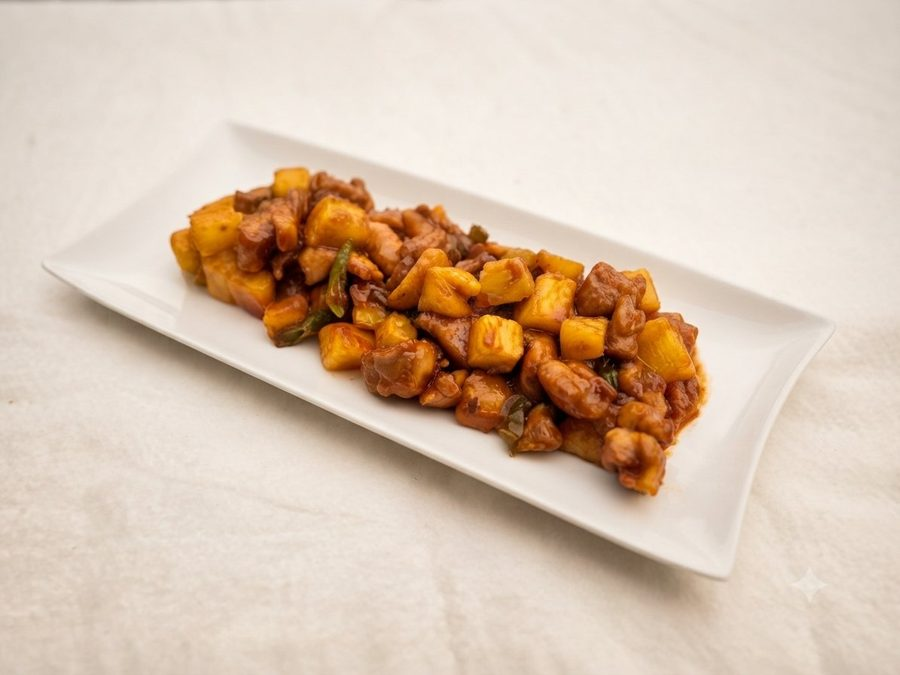
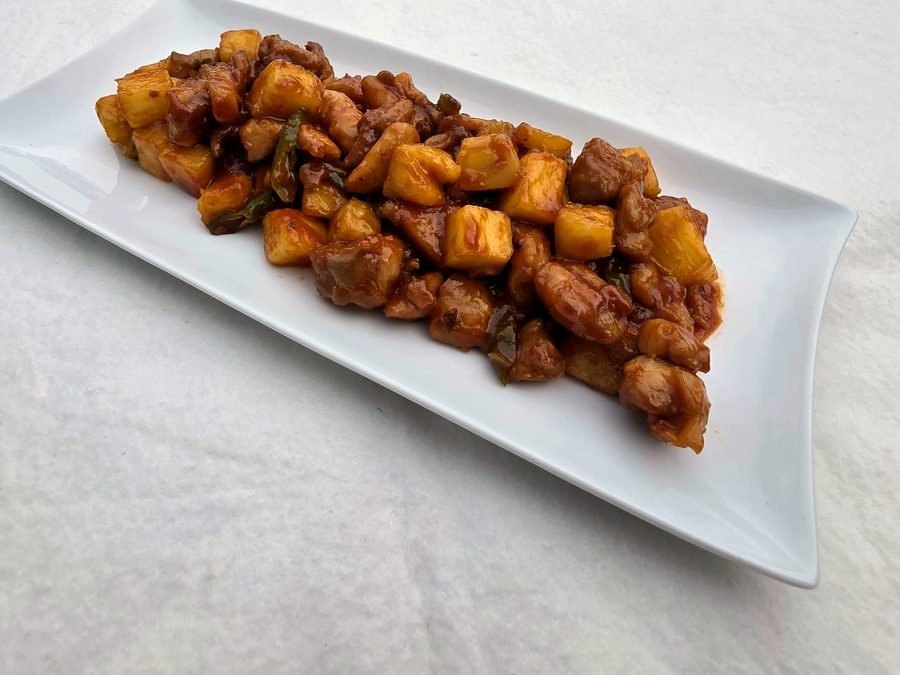
Preview: Sweet and Sour Pineapple Chicken

diff --git a/restaurants/jc-hwangs/index.html b/restaurants/jc-hwangs/index.html
@@ -105,7 +105,7 @@
   <h2>A Look at the Menu</h2>
   <p class="lede" style="margin-top:1rem">A selection of dishes from the J.C. Hwang’s Albany menus.</p>
 </div>
-<div class="gallery"><figure class="shot reveal"><picture><source srcset="/archway-preview/img/jc-majiaosun.webp" type="image/webp"><img src="/archway-preview/img/jc-majiaosun.jpg" alt="Majiaosun — wild bamboo shoots in vine pepper oil at J.C. Hwang’s Albany" loading="lazy" decoding=async></picture><figcaption>Majiaosun — wild bamboo shoots in vine pepper oil</figcaption></figure><figure class="shot reveal"><picture><source srcset="/archway-preview/img/jc-mushroom-consomme.webp" type="image/webp"><img src="/archway-preview/img/jc-mushroom-consomme.jpg" alt="Mushroom Consommé at J.C. Hwang’s Albany" loading="lazy" decoding=async></picture><figcaption>Mushroom Consommé</figcaption></figure><figure class="shot reveal"><picture><source srcset="/archway-preview/img/jc-pork-belly-garlic.webp" type="image/webp"><img src="/archway-preview/img/jc-pork-belly-garlic.jpg" alt="Sliced Pork Belly in Garlic Sauce at J.C. Hwang’s Albany" loading="lazy" decoding=async></picture><figcaption>Sliced Pork Belly in Garlic Sauce</figcaption></figure><figure class="shot reveal"><picture><source srcset="/archway-preview/img/jc-cold-eggplant.webp" type="image/webp"><img src="/archway-preview/img/jc-cold-eggplant.jpg" alt="Cold Eggplant with Garlic, Scallion and Chili Oil at J.C. Hwang’s Albany" loading="lazy" decoding=async></picture><figcaption>Cold Eggplant with Garlic, Scallion and Chili Oil</figcaption></figure><figure class="shot reveal"><picture><source srcset="/archway-preview/img/jc-marinated-okra.webp" type="image/webp"><img src="/archway-preview/img/jc-marinated-okra.jpg" alt="Marinated Okra in Ginger Sauce at J.C. Hwang’s Albany" loading="lazy" decoding=async></picture><figcaption>Marinated Okra in Ginger Sauce</figcaption></figure><figure class="shot reveal"><picture><source srcset="/archway-preview/img/jc-lotus-roots.webp" type="image/webp"><img src="/archway-preview/img/jc-lotus-roots.jpg" alt="Marinated Lotus Roots in Garlic Sauce at J.C. Hwang’s Albany" loading="lazy" decoding=async></picture><figcaption>Marinated Lotus Roots in Garlic Sauce</figcaption></figure><figure class="shot reveal"><picture><source srcset="/archway-preview/img/jc-fuqi-feipian.webp" type="image/webp"><img src="/archway-preview/img/jc-fuqi-feipian.jpg" alt="Fuqi Feipian — sliced beef and tripe in chili sauce at J.C. Hwang’s Albany" loading="lazy" decoding=async></picture><figcaption>Fuqi Feipian — sliced beef and tripe in chili sauce</figcaption></figure><figure class="shot reveal"><picture><source srcset="/archway-preview/img/jc-winter-melon-soup.webp" type="image/webp"><img src="/archway-preview/img/jc-winter-melon-soup.jpg" alt="Scallops and Ham in Winter Melon Soup at J.C. Hwang’s Albany" loading="lazy" decoding=async></picture><figcaption>Scallops and Ham in Winter Melon Soup</figcaption></figure><figure class="shot reveal"><picture><source srcset="/archway-preview/img/jc-beef-red-chili.webp" type="image/webp"><img src="/archway-preview/img/jc-beef-red-chili.jpg" alt="Beef in Red Chili Sauce at J.C. Hwang’s Albany" loading="lazy" decoding=async></picture><figcaption>Beef in Red Chili Sauce</figcaption></figure><figure class="shot reveal"><picture><source srcset="/archway-preview/img/jc-salt-baked-pork-liver.webp" type="image/webp"><img src="/archway-preview/img/jc-salt-baked-pork-liver.jpg" alt="Sichuan-Flavored Salt-Baked Pork Liver at J.C. Hwang’s Albany" loading="lazy" decoding=async></picture><figcaption>Sichuan-Flavored Salt-Baked Pork Liver</figcaption></figure><figure class="shot reveal"><picture><source srcset="/archway-preview/img/jc-fish-spicy-bean-sauce.webp" type="image/webp"><img src="/archway-preview/img/jc-fish-spicy-bean-sauce.jpg" alt="Fish in Spicy Bean Sauce at J.C. Hwang’s Albany" loading="lazy" decoding=async></picture><figcaption>Fish in Spicy Bean Sauce</figcaption></figure><figure class="shot reveal"><picture><source srcset="/archway-preview/img/jc-mouth-watering-chicken.webp" type="image/webp"><img src="/archway-preview/img/jc-mouth-watering-chicken.jpg" alt="Mouth-Watering Chicken at J.C. Hwang’s Albany" loading="lazy" decoding=async></picture><figcaption>Mouth-Watering Chicken</figcaption></figure><figure class="shot reveal"><picture><source srcset="/archway-preview/img/jc-boiled-fish.webp" type="image/webp"><img src="/archway-preview/img/jc-boiled-fish.jpg" alt="Sichuan Boiled Fish — fish fillets in hot chili broth at J.C. Hwang’s Albany" loading="lazy" decoding=async></picture><figcaption>Sichuan Boiled Fish — fish fillets in hot chili broth</figcaption></figure><figure class="shot reveal"><picture><source srcset="/archway-preview/img/jc-long-bean.webp" type="image/webp"><img src="/archway-preview/img/jc-long-bean.jpg" alt="Minced Pork with Long Bean in Garlic Sauce at J.C. Hwang’s Albany" loading="lazy" decoding=async></picture><figcaption>Minced Pork with Long Bean in Garlic Sauce</figcaption></figure><figure class="shot reveal"><picture><source srcset="/archway-preview/img/jc-double-fried-pork-belly.webp" type="image/webp"><img src="/archway-preview/img/jc-double-fried-pork-belly.jpg" alt="Double Fried Pork Belly at J.C. Hwang’s Albany" loading="lazy" decoding=async></picture><figcaption>Double Fried Pork Belly</figcaption></figure><figure class="shot reveal"><picture><source srcset="/archway-preview/img/jc-kung-pao-chicken.webp" type="image/webp"><img src="/archway-preview/img/jc-kung-pao-chicken.jpg" alt="Kung Pao Chicken at J.C. Hwang’s Albany" loading="lazy" decoding=async></picture><figcaption>Kung Pao Chicken</figcaption></figure><figure class="shot reveal"><picture><source srcset="/archway-preview/img/jc-ants-climbing-tree.webp" type="image/webp"><img src="/archway-preview/img/jc-ants-climbing-tree.jpg" alt="Ants Climbing a Tree at J.C. Hwang’s Albany" loading="lazy" decoding=async></picture><figcaption>Ants Climbing a Tree</figcaption></figure><figure class="shot reveal"><picture><source srcset="/archway-preview/img/jc-mapo-tofu.webp" type="image/webp"><img src="/archway-preview/img/jc-mapo-tofu.jpg" alt="Ma Po Tofu with Minced Beef at J.C. Hwang’s Albany" loading="lazy" decoding=async></picture><figcaption>Ma Po Tofu with Minced Beef</figcaption></figure></div>
+<div class="gallery"><figure class="shot reveal"><picture><source srcset="/archway-preview/img/jc-majiaosun.webp" type="image/webp"><img src="/archway-preview/img/jc-majiaosun.jpg" alt="Majiaosun — wild bamboo shoots in vine pepper oil at J.C. Hwang’s Albany" loading="lazy" decoding=async></picture><figcaption>Majiaosun — wild bamboo shoots in vine pepper oil</figcaption></figure><figure class="shot reveal"><picture><source srcset="/archway-preview/img/jc-mushroom-consomme.webp" type="image/webp"><img src="/archway-preview/img/jc-mushroom-consomme.jpg" alt="Mushroom Consommé at J.C. Hwang’s Albany" loading="lazy" decoding=async></picture><figcaption>Mushroom Consommé</figcaption></figure><figure class="shot reveal"><picture><source srcset="/archway-preview/img/jc-pork-belly-garlic.webp" type="image/webp"><img src="/archway-preview/img/jc-pork-belly-garlic.jpg" alt="Sliced Pork Belly in Garlic Sauce at J.C. Hwang’s Albany" loading="lazy" decoding=async></picture><figcaption>Sliced Pork Belly in Garlic Sauce</figcaption></figure><figure class="shot reveal"><picture><source srcset="/archway-preview/img/jc-cold-eggplant.webp" type="image/webp"><img src="/archway-preview/img/jc-cold-eggplant.jpg" alt="Cold Eggplant with Garlic, Scallion and Chili Oil at J.C. Hwang’s Albany" loading="lazy" decoding=async></picture><figcaption>Cold Eggplant with Garlic, Scallion and Chili Oil</figcaption></figure><figure class="shot reveal"><picture><source srcset="/archway-preview/img/jc-marinated-okra.webp" type="image/webp"><img src="/archway-preview/img/jc-marinated-okra.jpg" alt="Marinated Okra in Ginger Sauce at J.C. Hwang’s Albany" loading="lazy" decoding=async></picture><figcaption>Marinated Okra in Ginger Sauce</figcaption></figure><figure class="shot reveal"><picture><source srcset="/archway-preview/img/jc-lotus-roots.webp" type="image/webp"><img src="/archway-preview/img/jc-lotus-roots.jpg" alt="Marinated Lotus Roots in Garlic Sauce at J.C. Hwang’s Albany" loading="lazy" decoding=async></picture><figcaption>Marinated Lotus Roots in Garlic Sauce</figcaption></figure><figure class="shot reveal"><picture><source srcset="/archway-preview/img/jc-fuqi-feipian.webp" type="image/webp"><img src="/archway-preview/img/jc-fuqi-feipian.jpg" alt="Fuqi Feipian — sliced beef and tripe in chili sauce at J.C. Hwang’s Albany" loading="lazy" decoding=async></picture><figcaption>Fuqi Feipian — sliced beef and tripe in chili sauce</figcaption></figure><figure class="shot reveal"><picture><source srcset="/archway-preview/img/jc-winter-melon-soup.webp" type="image/webp"><img src="/archway-preview/img/jc-winter-melon-soup.jpg" alt="Scallops and Ham in Winter Melon Soup at J.C. Hwang’s Albany" loading="lazy" decoding=async></picture><figcaption>Scallops and Ham in Winter Melon Soup</figcaption></figure><figure class="shot reveal"><picture><source srcset="/archway-preview/img/jc-beef-red-chili.webp" type="image/webp"><img src="/archway-preview/img/jc-beef-red-chili.jpg" alt="Beef in Red Chili Sauce at J.C. Hwang’s Albany" loading="lazy" decoding=async></picture><figcaption>Beef in Red Chili Sauce</figcaption></figure><figure class="shot reveal"><picture><source srcset="/archway-preview/img/jc-salt-baked-pork-liver.webp" type="image/webp"><img src="/archway-preview/img/jc-salt-baked-pork-liver.jpg" alt="Sichuan-Flavored Salt-Baked Pork Liver at J.C. Hwang’s Albany" loading="lazy" decoding=async></picture><figcaption>Sichuan-Flavored Salt-Baked Pork Liver</figcaption></figure><figure class="shot reveal"><picture><source srcset="/archway-preview/img/jc-fish-spicy-bean-sauce.webp" type="image/webp"><img src="/archway-preview/img/jc-fish-spicy-bean-sauce.jpg" alt="Fish in Spicy Bean Sauce at J.C. Hwang’s Albany" loading="lazy" decoding=async></picture><figcaption>Fish in Spicy Bean Sauce</figcaption></figure><figure class="shot reveal"><picture><source srcset="/archway-preview/img/jc-mouth-watering-chicken.webp" type="image/webp"><img src="/archway-preview/img/jc-mouth-watering-chicken.jpg" alt="Mouth-Watering Chicken at J.C. Hwang’s Albany" loading="lazy" decoding=async></picture><figcaption>Mouth-Watering Chicken</figcaption></figure><figure class="shot reveal"><picture><source srcset="/archway-preview/img/jc-boiled-fish.webp" type="image/webp"><img src="/archway-preview/img/jc-boiled-fish.jpg" alt="Sichuan Boiled Fish — fish fillets in hot chili broth at J.C. Hwang’s Albany" loading="lazy" decoding=async></picture><figcaption>Sichuan Boiled Fish — fish fillets in hot chili broth</figcaption></figure><figure class="shot reveal"><picture><source srcset="/archway-preview/img/jc-long-bean.webp" type="image/webp"><img src="/archway-preview/img/jc-long-bean.jpg" alt="Minced Pork with Long Bean in Garlic Sauce at J.C. Hwang’s Albany" loading="lazy" decoding=async></picture><figcaption>Minced Pork with Long Bean in Garlic Sauce</figcaption></figure><figure class="shot reveal"><picture><source srcset="/archway-preview/img/jc-double-fried-pork-belly.webp" type="image/webp"><img src="/archway-preview/img/jc-double-fried-pork-belly.jpg" alt="Double Fried Pork Belly at J.C. Hwang’s Albany" loading="lazy" decoding=async></picture><figcaption>Double Fried Pork Belly</figcaption></figure><figure class="shot reveal"><picture><source srcset="/archway-preview/img/jc-kung-pao-chicken.webp" type="image/webp"><img src="/archway-preview/img/jc-kung-pao-chicken.jpg" alt="Kung Pao Chicken at J.C. Hwang’s Albany" loading="lazy" decoding=async></picture><figcaption>Kung Pao Chicken</figcaption></figure><figure class="shot reveal"><picture><source srcset="/archway-preview/img/jc-sweet-sour-pineapple-chicken.webp" type="image/webp"><img src="/archway-preview/img/jc-sweet-sour-pineapple-chicken.jpg" alt="Sweet and Sour Pineapple Chicken at J.C. Hwang’s Albany" loading="lazy" decoding=async></picture><figcaption>Sweet and Sour Pineapple Chicken</figcaption></figure><figure class="shot reveal"><picture><source srcset="/archway-preview/img/jc-ants-climbing-tree.webp" type="image/webp"><img src="/archway-preview/img/jc-ants-climbing-tree.jpg" alt="Ants Climbing a Tree at J.C. Hwang’s Albany" loading="lazy" decoding=async></picture><figcaption>Ants Climbing a Tree</figcaption></figure><figure class="shot reveal"><picture><source srcset="/archway-preview/img/jc-mapo-tofu.webp" type="image/webp"><img src="/archway-preview/img/jc-mapo-tofu.jpg" alt="Ma Po Tofu with Minced Beef at J.C. Hwang’s Albany" loading="lazy" decoding=async></picture><figcaption>Ma Po Tofu with Minced Beef</figcaption></figure></div>
 </div></section><section class="section section--surface">
 <div class="shell"><div class="split reveal">
   <div>
